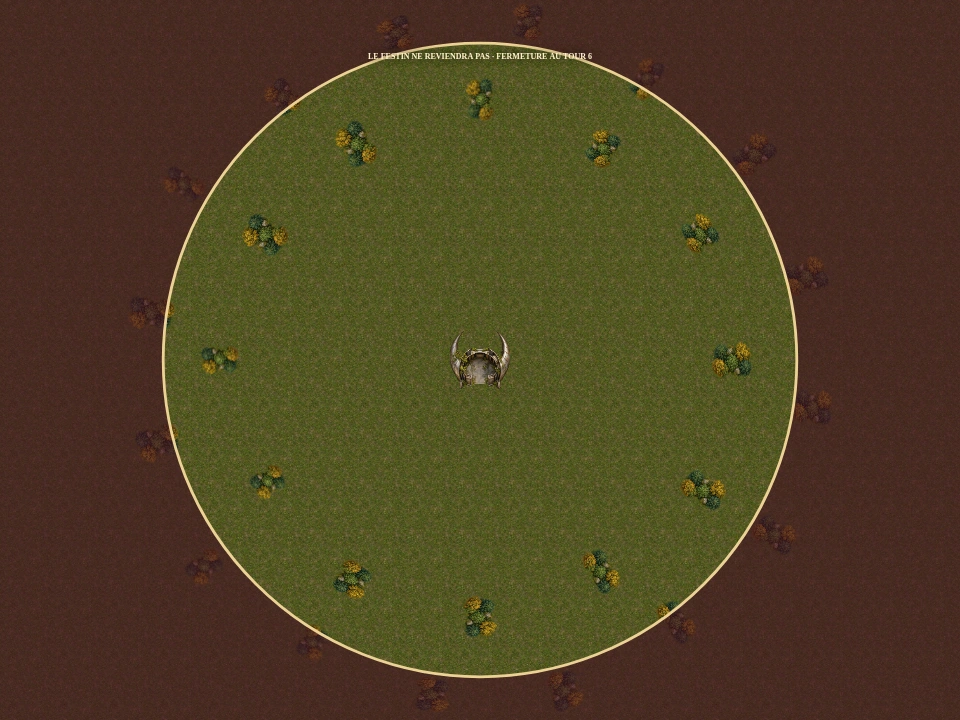
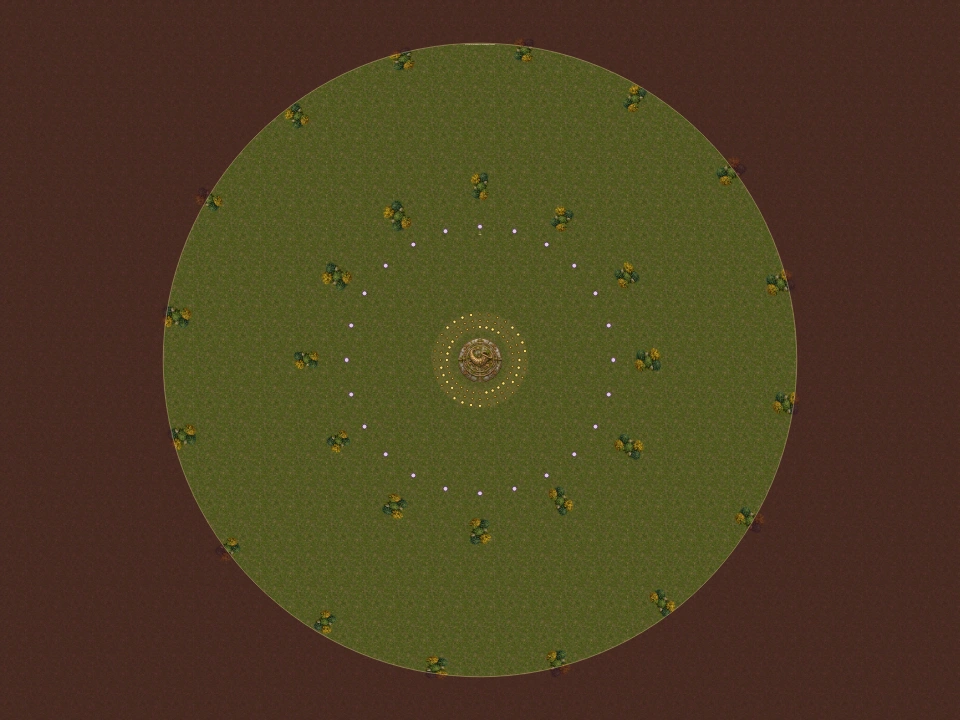
Match Hunger Games diagram with closed circular monument, inner feast rings and larger arena beyond spawns

diff --git a/survival.js b/survival.js
@@ -1,14 +1,26 @@
-import { survivalWaypoint } from "./survival-navigation.js?v=arena-17";
+import { survivalWaypoint } from "./survival-navigation.js?v=hunger-18";
 // Secret FILMOVORE survival mode. Its finite food supply never calls Game.addFood.
+export function survivalLayout(w, h) {
+  const unit = Math.min(1, Math.min(w, h) / 9000);
+  return {
+    unit,
+    x: w / 2,
+    y: h / 2,
+    coreRadius: 420 * unit,
+    foodRadii: [620, 740, 860].map((r) => r * unit),
+    spawnRadius: 2500 * unit,
+  };
+}
 export function survivalStart(w, h, index, count) {
   const a = -Math.PI / 2 + (index * Math.PI * 2) / count,
-    r = Math.min(w, h) * (2500 / 9000);
+    r = survivalLayout(w, h).spawnRadius;
   return { x: w / 2 + Math.cos(a) * r, y: h / 2 + Math.sin(a) * r };
 }
 export function survivalObstacles(w, h) {
-  const u = Math.min(w, h) / 9000,
-    cx = w / 2,
-    cy = h / 2;
+  const layout = survivalLayout(w, h),
+    u = layout.unit,
+    cx = layout.x,
+    cy = layout.y;
   const block = (dx, dy, bw, bh, angle = 0, extra = {}) => ({
     x: cx + dx * u,
     y: cy + dy * u,
@@ -18,21 +30,21 @@ export function survivalObstacles(w, h) {
     ...extra,
   });
   const objects = [
-    block(0, 100, 500, 280, 0, {
-      scenery: "cornucopia",
-      artX: cx,
-      artY: cy,
-      artW: 760 * u,
-      artH: 720 * u,
-    }),
-    block(-285, -65, 130, 570, -0.12, { sceneryPart: true }),
-    block(285, -65, 130, 570, 0.12, { sceneryPart: true }),
-    block(0, -255, 450, 75, 0, { sceneryPart: true }),
+    {
+      x: cx,
+      y: cy,
+      r: layout.coreRadius,
+      angle: 0,
+      scenery: "cornucopia-circle",
+      artW: layout.coreRadius * 2,
+      artH: layout.coreRadius * 2,
+    },
   ];
   for (let ring = 0; ring < 2; ring++)
     for (let i = 0; i < (ring ? 16 : 12); i++) {
       const a = (i * Math.PI * 2) / (ring ? 16 : 12) + ring * 0.14,
-        r = (ring ? 4200 : 3150) + Math.sin(i * 2.3) * 110;
+        r =
+          (ring ? (Math.min(w, h) * 0.43) / u : 3150) + Math.sin(i * 2.3) * 110;
       objects.push(
         block(
           Math.cos(a) * r,
@@ -85,12 +97,12 @@ export class SurvivalRules {
       "small",
       "small",
     ];
-    const unit = Math.min(g.w, g.h) / 9000;
+    const layout = survivalLayout(g.w, g.h);
     // Three complete accessible food rings, outside the central sculpture.
     for (let ring = 0; ring < 3; ring++)
       for (let i = 0; i < 32; i++) {
         const angle = -Math.PI / 2 + (i * Math.PI) / 16,
-          r = (1900 + ring * 120) * unit;
+          r = layout.foodRadii[ring];
         const point = {
           x: g.w / 2 + Math.cos(angle) * r,
           y: g.h / 2 + Math.sin(angle) * r,
@@ -99,6 +111,7 @@ export class SurvivalRules {
           g.food.push({
             ...point,
             type: "burger",
+            initialFeast: true,
             size: types[(i + ring * 4) % types.length],
           });
       }
@@ -193,7 +206,8 @@ export class SurvivalRules {
     const food = g.food
       .filter(
         (f) =>
-          dist(p, f) < (g.round <= 2 ? 1000 : 650) && dist(f, z) < z.r - 45,
+          dist(p, f) < (f.initialFeast && g.round <= 5 ? 3000 : 650) &&
+          dist(f, z) < z.r - 45,
       )
       .sort((a, b) => dist(p, a) - dist(p, b));
     let target;
@@ -230,7 +244,10 @@ export class SurvivalRules {
       person.intent = "search";
     }
     if (g.obstacles.some((o) => this.api.intersects(target, radius + 8, o)))
-      target = { x: z.x, y: z.y + Math.min(z.r * 0.55, g.h * 0.1) };
+      target = {
+        x: z.x,
+        y: z.y + survivalLayout(g.w, g.h).coreRadius + radius + 30,
+      };
     const waypoint = survivalWaypoint(g, p, target, radius + 8),
       base = Math.atan2(waypoint.y - p.y, waypoint.x - p.x);
     let best = { score: -Infinity, x: 0, y: 0 };
@@ -291,6 +308,41 @@ export function drawSurvivalFloor(ctx, g, time) {
     zone.x,
     zone.y - zone.r + 40,
   );
+  const player = g.people[0];
+  if (player?.alive && g.food.some((f) => f.initialFeast)) {
+    const p = player.body.position,
+      foods = g.food
+        .filter((f) => f.initialFeast)
+        .sort((a, b) => dist(p, a) - dist(p, b));
+    if (foods[0] && dist(p, foods[0]) > 550) {
+      const a = Math.atan2(foods[0].y - p.y, foods[0].x - p.x),
+        r = player.body.circleRadius + 85;
+      ctx.save();
+      ctx.translate(p.x + Math.cos(a) * r, p.y + Math.sin(a) * r);
+      ctx.rotate(a);
+      ctx.strokeStyle = "#f2cd83";
+      ctx.fillStyle = "#f2cd83";
+      ctx.lineWidth = 3;
+      ctx.beginPath();
+      ctx.moveTo(-25, 0);
+      ctx.lineTo(17, 0);
+      ctx.stroke();
+      ctx.beginPath();
+      ctx.moveTo(25, 0);
+      ctx.lineTo(10, -8);
+      ctx.lineTo(10, 8);
+      ctx.closePath();
+      ctx.fill();
+      ctx.restore();
+      ctx.font = "bold 13px sans-serif";
+      ctx.fillStyle = "#ffe4aa";
+      ctx.fillText(
+        "FESTIN",
+        p.x + Math.cos(a) * (r + 40),
+        p.y + Math.sin(a) * (r + 40) + 5,
+      );
+    }
+  }
   for (const d of rules.drops) {
     const t = Math.min(1, (rules.clock - d.at) / 2600),
       bob = Math.sin(time * 0.005) * 3;

diff --git a/game.js b/game.js
@@ -3,7 +3,7 @@ import {
   drawSurvivalFloor,
   survivalStart,
   survivalObstacles,
-} from "./survival.js?v=arena-17";
+} from "./survival.js?v=hunger-18";
 import { setupSecretTrophyLab } from "./secret-trophy-lab.js?v=filmovore-15";
 import {
   SecretRules,
@@ -30,12 +30,12 @@ import {
   arenaSize,
   arenaBorderBodies,
   drawArenaBorders,
-} from "./arena-bounds.js?v=arena-17";
+} from "./arena-bounds.js?v=hunger-18";
 import {
   createRestaurantMenu,
   setupSecretBurger,
   modeUnlocked,
-} from "./restaurant-menu.js?v=burger-16";
+} from "./restaurant-menu.js?v=hunger-18";
 import { ArenaMechanics } from "./arena-mechanics.js?v=filmovore-15";
 import {
   drawArenaFloor,
@@ -48,7 +48,7 @@ import {
   drawExtraCosmetic,
   extraCosmeticImage,
 } from "./cosmetics.js?v=filmovore-15";
-import { drawMapArt, mapArtURL } from "./map-art.js?v=arena-17";
+import { drawMapArt, mapArtURL } from "./map-art.js?v=hunger-18";
 import {
   REMOVED_MAPS,
   WORK_IN_PROGRESS_MAPS,
@@ -1136,7 +1136,7 @@ for (const [id, mode] of Object.entries(SECRET_GAME_MODES))
         : id === "cannibal"
           ? "Les victimes sont des adultes fictifs de 40 kg. Elles préparent de courtes fuites avant les propulsions simultanées, paniquent et trébuchent parfois. Les gourmands peuvent toujours se dévorer. Dernier survivant : même règle que le Classique."
           : id === "survival"
-            ? "24 gourmands à 60 kg, un festin initial limité et une forêt à explorer. Aucun réapprovisionnement ordinaire : guette les rares parachutages. Dès le sixième tour, rejoins le cercle annoncé avant la fin du mouvement. Dernier survivant : victoire !"
+            ? "24 gourmands à 60 kg sur un cercle de départ. Le monument circulaire central est infranchissable ; les burgers sont accessibles en anneau autour. Suis la flèche du festin pour le rejoindre, puis explore la grande forêt. Aucun réapprovisionnement ordinaire : guette les rares parachutages. Dès le sixième tour, rejoins le cercle annoncé avant la fin du mouvement. Dernier survivant : victoire !"
             : "Une grande rue, des camions de glaces vus du dessus et une course-poursuite de comédie horrifique. Capture les enfants pour grossir, évite les camions plus imposants et reste le dernier gourmand en piste.",
   };
 CA.royal = {
@@ -9472,8 +9472,8 @@ class zt {
         i.r
           ? yA.circle(i.x, i.y, i.r, {
               isStatic: !0,
-              restitution: 1.5,
-              label: "bumper",
+              restitution: i.scenery === "cornucopia-circle" ? 0.3 : 1.5,
+              label: i.scenery === "cornucopia-circle" ? "obstacle" : "bumper",
             })
           : i.vertices
             ? yA.fromVertices(i.x, i.y, [i.vertices], {

diff --git a/map-art.js b/map-art.js
@@ -1,3 +1,4 @@
+import { survivalLayout } from "./survival.js?v=hunger-18";
 import { shaft, secretSprite } from "./secret-modes.js?v=arena-17";
 export const ILLUSTRATED_MAPS = [
   "survival",
@@ -57,18 +58,33 @@ export function drawMapArt(context, game) {
     let pattern = survivalPatterns.get(game);
     if (!pattern) {
       pattern = context.createPattern(image, "repeat");
-      pattern.setTransform(
-        new DOMMatrix().scale(Math.min(game.w, game.h) / 18000),
-      );
+      pattern.setTransform(new DOMMatrix().scale(0.5));
       survivalPatterns.set(game, pattern);
     }
     context.fillStyle = pattern;
     context.fillRect(0, 0, game.w, game.h);
     context.fillStyle = "rgba(43,58,34,.20)";
     context.fillRect(0, 0, game.w, game.h);
+    const layout = survivalLayout(game.w, game.h),
+      outer = layout.foodRadii[2] + 65 * layout.unit;
+    const clearing = context.createRadialGradient(
+      layout.x,
+      layout.y,
+      0,
+      layout.x,
+      layout.y,
+      outer,
+    );
+    clearing.addColorStop(0, "rgba(154,123,67,.05)");
+    clearing.addColorStop(0.56, "rgba(154,123,67,.05)");
+    clearing.addColorStop(0.64, "rgba(154,123,67,.24)");
+    clearing.addColorStop(0.94, "rgba(154,123,67,.24)");
+    clearing.addColorStop(1, "rgba(154,123,67,0)");
+    context.fillStyle = clearing;
+    context.fillRect(layout.x - outer, layout.y - outer, outer * 2, outer * 2);
     for (const o of game.obstacles) {
-      if (o.scenery === "cornucopia")
-        secretSprite(context, "cornucopia", o.artX, o.artY, o.artW, o.artH);
+      if (o.scenery === "cornucopia-circle")
+        secretSprite(context, "cornucopia-circle", o.x, o.y, o.artW, o.artH);
       else if (o.scenery === "forest-grove")
         secretSprite(
           context,

diff --git a/survival-navigation.js b/survival-navigation.js
@@ -2,6 +2,20 @@
 const caches = new WeakMap();
 export function clearRoute(a, b, obstacles, radius = 0) {
   return !obstacles.some((o) => {
+    if (o.r) {
+      const dx = b.x - a.x,
+        dy = b.y - a.y,
+        length = dx * dx + dy * dy;
+      const t = length
+        ? Math.max(
+            0,
+            Math.min(1, ((o.x - a.x) * dx + (o.y - a.y) * dy) / length),
+          )
+        : 0;
+      return (
+        Math.hypot(a.x + dx * t - o.x, a.y + dy * t - o.y) < o.r + radius - 1e-6
+      );
+    }
     const c = Math.cos(o.angle || 0),
       s = Math.sin(o.angle || 0),
       dx = b.x - a.x,
@@ -35,6 +49,24 @@ export function survivalWaypoint(g, from, target, radius) {
   if (!graph) {
     const nodes = [];
     for (const o of g.obstacles.filter((o) => !o.boundary)) {
+      if (o.r) {
+        const count = 20,
+          r = (o.r + bucket + 16) / Math.cos(Math.PI / count);
+        for (let i = 0; i < count; i++) {
+          const a = (i * Math.PI * 2) / count,
+            p = { x: o.x + Math.cos(a) * r, y: o.y + Math.sin(a) * r };
+          if (
+            clearRoute(
+              p,
+              { x: p.x + 0.001, y: p.y + 0.001 },
+              g.obstacles,
+              bucket,
+            )
+          )
+            nodes.push(p);
+        }
+        continue;
+      }
       const c = Math.cos(o.angle || 0),
         s = Math.sin(o.angle || 0);
       for (const sx of [-1, 1])

diff --git a/restaurant-menu.js b/restaurant-menu.js
@@ -146,7 +146,7 @@ export function createRestaurantMenu(catalog, onSelect) {
               : "LE FESTIN DU JOUR";
       const figure = item.page.querySelector("figure");
       figure.replaceChildren();
-      const url = `./assets/previews/${selected}.webp?v=filmovore-15`;
+      const url = `./assets/previews/${selected}.webp?v=hunger-18`;
       const img = new Image();
       img.className = "map-preview";
       img.alt = `Aperçu de ${map.name}`;

diff --git a/arena-bounds.js b/arena-bounds.js
@@ -1,6 +1,6 @@
 // One layout drives physical walls, safe spawning and the visible rails / room edges.
 export function arenaSize(mode, mapId) {
-  if (mode === "survival") return { w: 12000, h: 9000 };
+  if (mode === "survival") return { w: 18000, h: 13500 };
   if (mode === "classic" && mapId !== "volcan") return { w: 2400, h: 1800 };
   if (mode === "platform") return { w: 1600, h: 1200 };
   if (mode === "cannibal") return { w: 2000, h: 1500 };

diff --git a/index.html b/index.html
@@ -8,7 +8,7 @@
     />
     <meta name="theme-color" content="#171d20" />
     <title>Bouffe ou Crève — Le dernier repas</title>
-    <script type="module" src="./game.js?v=arena-17"></script>
+    <script type="module" src="./game.js?v=hunger-18"></script>
 
     <link rel="stylesheet" href="./style.css?v=burger-16" />
   </head>

diff --git a/docs/SECRET-MODES.md b/docs/SECRET-MODES.md
@@ -37,11 +37,11 @@ Si deux gourmands tombent, l’instant du sous-pas physique permet de distinguer
 
 Cette entrée des tomates ouvre un carnet réunissant **La Plateforme · 16 gourmands** et **Hunger Games · 24 gourmands**. `survival` est un nouveau mode ; la carte classique `hunger` reste distincte.
 
-Les 24 gourmands commencent à 60 kg, espacés d’environ 653 unités sur un cercle de rayon 2 500, autour d’un festin fini de 96 aliments répartis en trois anneaux : plusieurs burgers de Douggy, XL, normaux et petits (8 kg, silhouette réduite). Les aliments sont placés hors des obstacles, sur des rayons de 1 900 / 2 020 / 2 140 ; chaque départ dispose d’un chemin direct vers eux. Un vrai premier tir vérifie leur collecte. Ils ne se reconstituent pas. Aucun service automatique, fondue ou tirage de pouvoirs ordinaire n’intervient. Une forêt originale, des rochers et une structure métallique centrale servent de décor ; ses obstacles sont physiques.
+Les 24 gourmands commencent à 60 kg, espacés d’environ 653 unités sur un cercle de rayon 2 500, autour d’un festin fini de 96 aliments répartis en trois anneaux : plusieurs burgers de Douggy, XL, normaux et petits (8 kg, silhouette réduite). Les aliments sont placés hors des obstacles, sur des rayons de 620 / 740 / 860 ; chaque départ dispose d’un chemin direct vers eux. Une approche en trois propulsions vérifie leur collecte depuis les départs. Ils ne se reconstituent pas. Aucun service automatique, fondue ou tirage de pouvoirs ordinaire n’intervient. Le centre est un disque décoratif fermé de rayon 420, portant une corne d’abondance sculptée. Il est entièrement infranchissable et sans fausse entrée. Le dessin et le corps circulaire partagent le même rayon. Le festin est à l’extérieur du disque ; les départs sont sur un anneau plus éloigné, indépendant de la limite de l’arène. Une forêt originale et des rochers entourent cet ensemble.
 
 Un parachutage est possible tous les quatre tours à partir du cinquième (78 % à chaque créneau). Il annonce son emplacement, descend pendant 2,6 secondes avec voile, caisse et ombre, puis fournit quatre aliments, dont parfois un Douggy (12 % pour le premier aliment du colis). L’emplacement doit rester accessible dans la zone du tour suivant. Il n’y a aucun remplissage automatique du centre.
 
-La fermeture commence au sixième tour, après cinq tours sans réduction. La limite à rejoindre est visible pendant toute la visée et le mouvement ; l’élimination n’a lieu qu’à la fin du tir. L’arène initiale mesure 12 000 × 9 000, soit seize fois l’ancienne surface. Le rayon sûr part de 3 960, diminue de 10 % par tour puis reste à 990 : la taille de l’ancienne arène initiale pour le combat final. Le sol forestier utilise une texture répétée à son échelle native ; les bosquets et la structure centrale sont des calques séparés assortis aux obstacles physiques, sans étirement flou d’une petite image sur tout le monde.
+La fermeture commence au sixième tour, après cinq tours sans réduction. La limite à rejoindre est visible pendant toute la visée et le mouvement ; l’élimination n’a lieu qu’à la fin du tir. L’arène initiale mesure 18 000 × 13 500, soit 2,25 fois la surface de la version précédente. Le rayon sûr part de 5 940, diminue de 10 % par tour puis reste à 990 : la taille de l’ancienne arène initiale pour le combat final. Le sol forestier utilise une texture répétée à son échelle native ; les bosquets et la structure centrale sont des calques séparés assortis aux obstacles physiques, sans étirement flou d’une petite image sur tout le monde.
 
 Les IA ont trois préférences initiales, fuient les plus gros, chassent les plus petits, cherchent les ressources et utilisent un graphe de visibilité autour des obstacles, mis en cache par gabarit de personnage. La recherche ne parcourt plus une grille couvrant toute la grande carte. Elles ne lisent pas les tirs à venir. La dissimulation sous les arbres n’est pas ajoutée : les arbres n’effacent pas les personnages.
 
